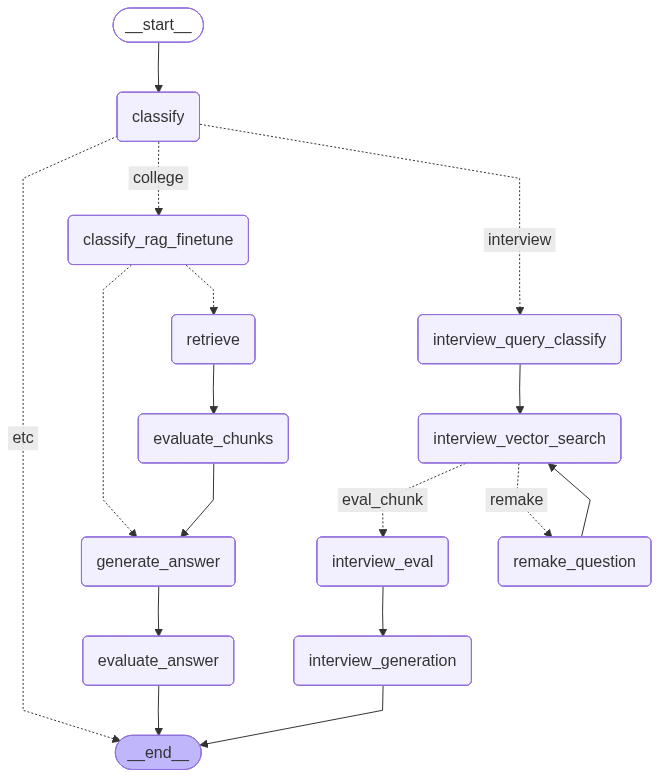
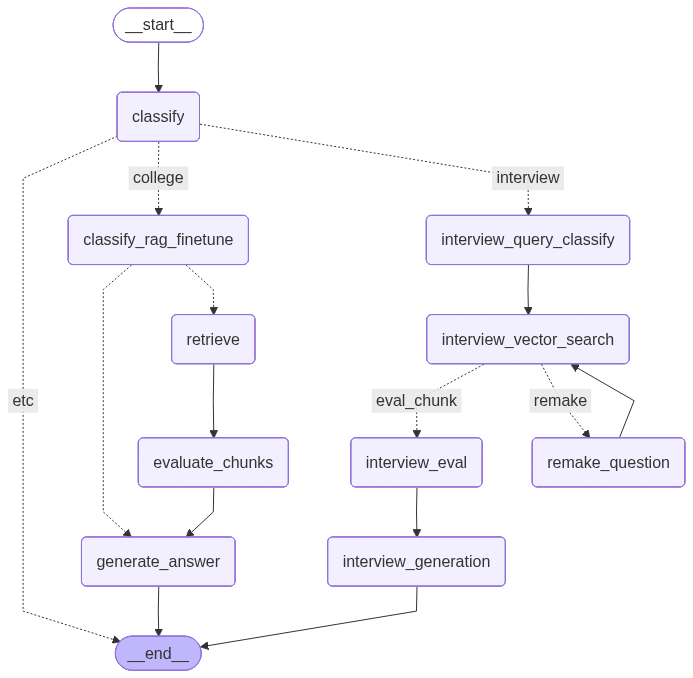
fix: 대학쪽 노드 및 청크 답변 추출 전부 수정 완료

diff --git a/backend/LangGraph/nodes/generate_answer.py b/backend/LangGraph/nodes/generate_answer.py
@@ -2,8 +2,10 @@ from typing import Any, Dict, List
 
 from langchain_core.messages import HumanMessage, SystemMessage
 
-from models import load_finetune_ollama_model
+from models import load_finetune_ollama_model, load_openai_model
 from initstate import GraphState
+
+import os
 
 
 def _chunks_to_context(chunks: List[Dict[str, Any]], limit: int = 5) -> str:
@@ -20,30 +22,86 @@ def _chunks_to_context(chunks: List[Dict[str, Any]], limit: int = 5) -> str:
     return "\n\n".join(formatted)
 
 
+def _extract_university_list(chunks: List[Dict[str, Any]]) -> List[str]:
+    """청크 메타데이터에 포함된 대학/학과 목록만 추출한다."""
+    if not chunks:
+        return []
+
+    seen = set()
+    universities: List[str] = []
+    for chunk in chunks:
+        metadata = chunk.get("metadata") or {}
+        uni_field = metadata.get("universities") or metadata.get("Universities") or ""
+        if not uni_field:
+            continue
+        entries = [entry.strip() for entry in uni_field.split("|")]
+        for entry in entries:
+            if entry and entry not in seen:
+                seen.add(entry)
+                universities.append(entry)
+    return universities
+
+
 def generate_answer(state: GraphState) -> GraphState:
     """평가된 chunk를 활용해 구조화된 답변을 생성한다."""
-    llm = load_finetune_ollama_model()
-
     base_question = (state.get("generate_question") or state.get("question") or "").strip()
     user_profile = (state.get("user") or "").strip()
     category = (state.get("category") or "일반").strip()
     context_chunks = state.get("final_chunks") or state.get("chunks") or []
     context_text = _chunks_to_context(context_chunks)
-
-    system_prompt = (
-        "너는 진로/취업 컨설턴트다. 제공된 참고 문서를 우선 근거로 활용해 "
-        "사용자 질문에 대해 실행 가능한 조언을 한국어로 작성하라. "
-        "답변은 1) 상황 요약 2) 실행 전략(불릿) 3) 참고/주의 사항 순으로 구성한다. "
-        "참고 문서가 없다면 그 사실을 먼저 알리고 일반적인 모범 답안을 제시하라."
+    allowed_universities = _extract_university_list(context_chunks)
+    universities_text = (
+        "\n".join(f"- {name}" for name in allowed_universities)
+        if allowed_universities
+        else "없음 (대학명을 새로 만들지 말고 언급도 피하라)"
     )
 
-    human_prompt = (
-        f"사용자 배경:\n{user_profile or '제공되지 않음'}\n\n"
-        f"카테고리: {category}\n"
-        f"질문:\n{base_question or '질문 정보 없음'}\n\n"
-        f"참고 자료:\n{context_text or '없음'}\n\n"
-        "상기 정보를 활용해 신뢰할 수 있는 한국어 답변을 작성하라."
-    )
+    has_context = bool(context_text.strip())
+    params = {"model": os.getenv("EVAL_MODEL")}
+    llm = load_openai_model(params_key=tuple(sorted(params.items()))) if has_context else load_finetune_ollama_model()
+
+    if has_context:
+        system_prompt = (
+            "너는 진로/취업 컨설턴트다. 제공된 참고 문서를 우선 근거로 활용해 "
+            "사용자 질문에 대해 실행 가능한 조언을 한국어로 작성하라. 답변은 아래 구조를 따른다.\n"
+            "1) 학과 설명: 각 참고 자료의 summary, interest, property 필드를 근거로 학과의 특징/적성/진로를 정리한다.\n"
+            "2) 실행 전략(불릿)\n"
+            "3) 학과 추천: 참고 자료의 universities 메타데이터에서 추출한 대학명만 사용하되, 주어진 목록을 빠짐없이 나열한다.\n"
+            "4) 참고/주의 사항\n"
+            "각 섹션은 '학과 설명:', '실행 전략 1)'처럼 제목을 명시한 단락으로 작성하고, 실행 전략과 학과 추천 항목은 각각 '실행 전략 1)', '학과 추천 1)'과 같은 번호 매김 문장으로 나열하라.\n"
+            "각 실행 전략 블록에서는 구체적인 학과/전공명을 언급하고, 해당 참고 자료의 메타데이터에 "
+            "'universities' 정보가 포함되어 있다면 최소 1개 이상의 대학명을 자연스럽게 인용하라. "
+            "제공된 참고 문서는 DB에서 검색된 내용이므로, 새로운 자료를 상상하거나 외부 지식을 추가하지 말고 "
+            "반드시 주어진 문맥 안에서만 사실을 언급하라. "
+            "대학/학과 명칭은 반드시 아래 허용 목록에 포함된 항목만 사용하고, 목록에 없는 이름을 새로 만들지 마라. "
+            "출력은 순수 텍스트로만 작성하며, 섹션 사이에는 빈 줄 하나를 넣고, **, *, -, • 같은 마크다운/특수 기호를 사용하지 마라. "
+            "해당 섹션에 넣을 내용이 없다면 그 섹션 자체를 생략하되, 빈 텍스트나 placeholder를 넣지 마라."
+        )
+        human_prompt = (
+            f"[사용자 배경]\n{user_profile or '제공되지 않음'}\n\n"
+            f"[질문]\n{base_question or '질문 정보 없음'}\n\n"
+            f"[참고 자료]\n{context_text}\n\n"
+            f"[사용 가능 대학 목록]\n{universities_text}\n\n"
+            "위 정보를 근거로 지정된 답변 구조(학과 설명 → 실행 전략 → 학과 추천 → 참고/주의 사항)를 따른다. "
+            "학과 설명에는 summary/interest/property만 사용하고, 학과 추천에는 허용 목록에 있는 대학명 전부를 빠짐없이 활용한다. "
+            "사용할 수 있는 참고 자료 번호가 없다면 다른 섹션으로 넘어가고, 임의의 번호를 만들지 마라."
+        )
+    else:
+        system_prompt = (
+            "너는 진로/취업 상담 전문가다. 참고 문서 없이도 사용자의 질문에 대해 "
+            "공감과 실행 가능한 조언을 한국어로 제공해야 한다. "
+            "답변은 1) 상황 요약 2) 실행 전략(불릿) 3) 참고/주의 사항 순으로 구성하고, "
+            "각 섹션은 '상황 요약:', '실행 전략 1)'과 같이 제목/번호를 붙인 문장으로 작성하라. "
+            "잡음이나 반복 없이 명료한 문장으로 작성하고, 섹션 사이에는 빈 줄을 넣어 구분하라. "
+            "출력은 순수 텍스트로 작성하고 마크다운(**, *, -, • 등) 표기를 쓰지 마라."
+        )
+        human_prompt = (
+            f"사용자 배경:\n{user_profile or '제공되지 않음'}\n\n"
+            f"카테고리: {category}\n"
+            f"질문:\n{base_question or '질문 정보 없음'}\n\n"
+            "참고 자료는 제공되지 않았다. "
+            "상담 관점에서 현실적인 조언과 격려를 포함한 답변을 작성하라."
+        )
 
     messages = [
         SystemMessage(content=system_prompt),

diff --git a/backend/LangGraph/nodes/eval_chunks.py b/backend/LangGraph/nodes/eval_chunks.py
@@ -1,4 +1,4 @@
-import sys, os, json
+import sys, os, json, re
 from pathlib import Path
 
 from langchain_core.messages import HumanMessage, SystemMessage
@@ -38,10 +38,25 @@ def node_evaluate_chunks(state: GraphState) -> GraphState:
             ),
         ]
         raw = llm.invoke(message).content
+        parsed = {"score": 0.0, "reason": "LLM output parsing 실패"}
+        raw_text = (raw or "").strip()
+        if "```" in raw_text:
+            code_match = re.search(r'```(?:json)?\s*({.*?})\s*```', raw_text, re.DOTALL)
+            if code_match:
+                raw_text = code_match.group(1).strip()
+
         try:
-            parsed = json.loads(raw)
+            parsed = json.loads(raw_text)
         except json.JSONDecodeError:
-            parsed = {"score": 0.0, "reason": "LLM output parsing 실패"}
+            score_match = re.search(r'["\']?score["\']?\s*:\s*([0-9.]+)', raw_text, re.IGNORECASE)
+            reason_match = re.search(r'["\']?reason["\']?\s*:\s*["\']([^"\']+)["\']', raw_text, re.IGNORECASE)
+            if score_match:
+                parsed = {
+                    "score": float(score_match.group(1)),
+                    "reason": reason_match.group(1) if reason_match else raw_text[:120],
+                }
+            else:
+                parsed = {"score": 0.2, "reason": f"LLM 출력 파싱 실패 (raw: {raw_text[:80]}…)"}
 
         eval_score = float(parsed.get("score", 0.0))
         eval_reason = parsed.get("reason", "")
@@ -54,7 +69,11 @@ def node_evaluate_chunks(state: GraphState) -> GraphState:
         evaluated_chunks.append(chunk_with_eval)
 
     sorted_chunks = sorted(evaluated_chunks, key=lambda ch: ch.get("eval_score", 0.0), reverse=True)
-    state["final_chunks"] = sorted_chunks[:5]
+    min_score = float(os.getenv("CHUNK_MIN_SCORE", "0.5"))
+    filtered_chunks = [ch for ch in sorted_chunks if ch.get("eval_score", 0.0) >= min_score]
+    if not filtered_chunks:
+        filtered_chunks = sorted_chunks[:5]
+    state["final_chunks"] = filtered_chunks[:5]
     state["citations"] = [
         ch.get("metadata", {}) for ch in state["final_chunks"]
     ]

diff --git a/django/chatbot/views.py b/django/chatbot/views.py
@@ -1,5 +1,6 @@
 import json
 import logging
+import re
 
 from django.http import JsonResponse
 from django.shortcuts import render
@@ -51,6 +52,7 @@ def chatbot_ask(request):
         or result.get("answer")
         or "답변을 생성하지 못했습니다. 다시 시도해 주세요."
     )
+    answer = _normalize_answer_text(answer)
 
     response = {
         "answer": answer,
@@ -62,3 +64,32 @@ def chatbot_ask(request):
         },
     }
     return JsonResponse(response)
+
+
+def _normalize_answer_text(text: str) -> str:
+    """LLM 답변에서 마크다운 기호 제거 및 줄바꿈 보정."""
+    if not text:
+        return ""
+
+    cleaned = text.replace("**", "")
+    cleaned = cleaned.replace("•", "")
+    cleaned = cleaned.replace("* ", "")
+    cleaned = cleaned.replace("- ", "")
+    cleaned = cleaned.replace("\r\n", "\n")
+
+    cleaned = re.sub(r"(알겠습니다[^\n\.]*[\.!]\s*)", "", cleaned, flags=re.IGNORECASE)
+    cleaned = re.sub(r"(제시된 정보를 바탕으로[^\n\.]*[\.!]\s*)", "", cleaned, flags=re.IGNORECASE)
+
+    cleaned = re.sub(r"(?<=\.)\s+(?=\d+[.)])", "\n\n", cleaned)
+    cleaned = re.sub(r"(?<!\n)(\d+\.\s)", r"\n\n\1", cleaned)
+    cleaned = re.sub(r"(?<!\n)(\d+\)\s)", r"\n\n\1", cleaned)
+    cleaned = re.sub(r"\s*((?:실행 전략|학과 추천)\s*\d+\)\s)", r"\n\n\1", cleaned)
+    cleaned = re.sub(r"\s*(상황 요약:|학과 설명:|참고/주의 사항:)", r"\n\n\1", cleaned)
+
+    segments = [segment.strip() for segment in cleaned.split("\n") if segment.strip()]
+    filtered = []
+    for seg in segments:
+        if filtered and seg == filtered[-1]:
+            continue
+        filtered.append(seg)
+    return "\n\n".join(filtered)

diff --git a/backend/LangGraph/graph.py b/backend/LangGraph/graph.py
@@ -7,7 +7,6 @@ from .nodes.retrieve_chunks import retrieve_chunks_node
 from .nodes.eval_chunks import node_evaluate_chunks
 from .nodes.generate_questions import generate_user_question_node
 from .nodes.generate_answer import generate_answer
-from .nodes.eval_generated_answer import evaluate_question_answer
 
 # 면접 관련 노드 import
 from .nodes.interview_query_classify import interview_query_classify_node
@@ -24,7 +23,6 @@ def create_graph_flow():
     graph.add_node('retrieve', retrieve_chunks_node)
     graph.add_node('evaluate_chunks', node_evaluate_chunks)
     graph.add_node('generate_answer', generate_answer)
-    graph.add_node('evaluate_answer', evaluate_question_answer)
     
     # 면접 관련 노드 추가
     graph.add_node('interview_query_classify', interview_query_classify_node)
@@ -66,12 +64,11 @@ def create_graph_flow():
         route_rag_finetune,
         {
             "retrieve": "retrieve",
-            "finetune": "generate_answer",
+            "generate_answer": "generate_answer",
         },
     )
     graph.add_edge('retrieve', 'evaluate_chunks')
     graph.add_edge('evaluate_chunks', 'generate_answer')
-    graph.add_edge('generate_answer', 'evaluate_answer')
-    graph.add_edge('evaluate_answer', END)
+    graph.add_edge('generate_answer', END)
 
     return graph.compile()

diff --git a/backend/LangGraph/nodes/classify.py b/backend/LangGraph/nodes/classify.py
@@ -18,7 +18,7 @@ def classify_category(state: GraphState) -> GraphState:
                 f"- 사용자 질문: {state['question']}\n\n"
                 "판단 기준:\n"
                 "1. 면접 준비, 인성/직무 면접 질문, 회사 지원 동기 등 채용 또는 취업 인터뷰에 관한 요구라면 'interview'로 분류합니다.\n"
-                "2. 학과 선택, 대학 정보, 진학 전략, 전공/교과 관련 고민 등 진학이나 전공 탐색과 직접적으로 연결되면 'college'로 분류합니다.\n"
+                "2. 학과 선택, 대학 정보, 진학 전략, 동기 부여, 학습 태도, 멘탈 케어, 공부 방법 조언 등 개인 고민상담 등 진학이나 전공 탐색과 직접적으로 연결되면 'college'로 분류합니다.\n"
                 "3. 사용자의 상황(state['user'])가 취업 준비생이라면 'interview' 쪽을 우선 고려하고, 고등학생이라면 'college'를 우선 고려합니다.\n"
                 "4. 질문의 목적이 애매하거나 면접 혹은 대학진로와 관계없는 질문이라면 'etc'를 선택합니다.\n\n"
                 "출력 형식: 오직 'interview', 'college', 'etc' 중 하나만 텍스트로 반환하세요."
